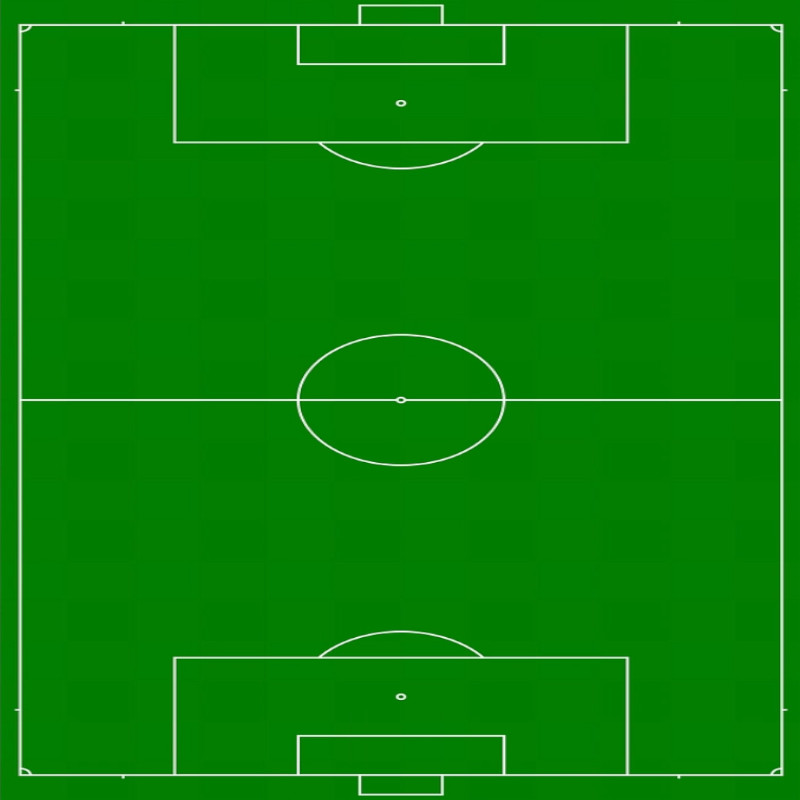
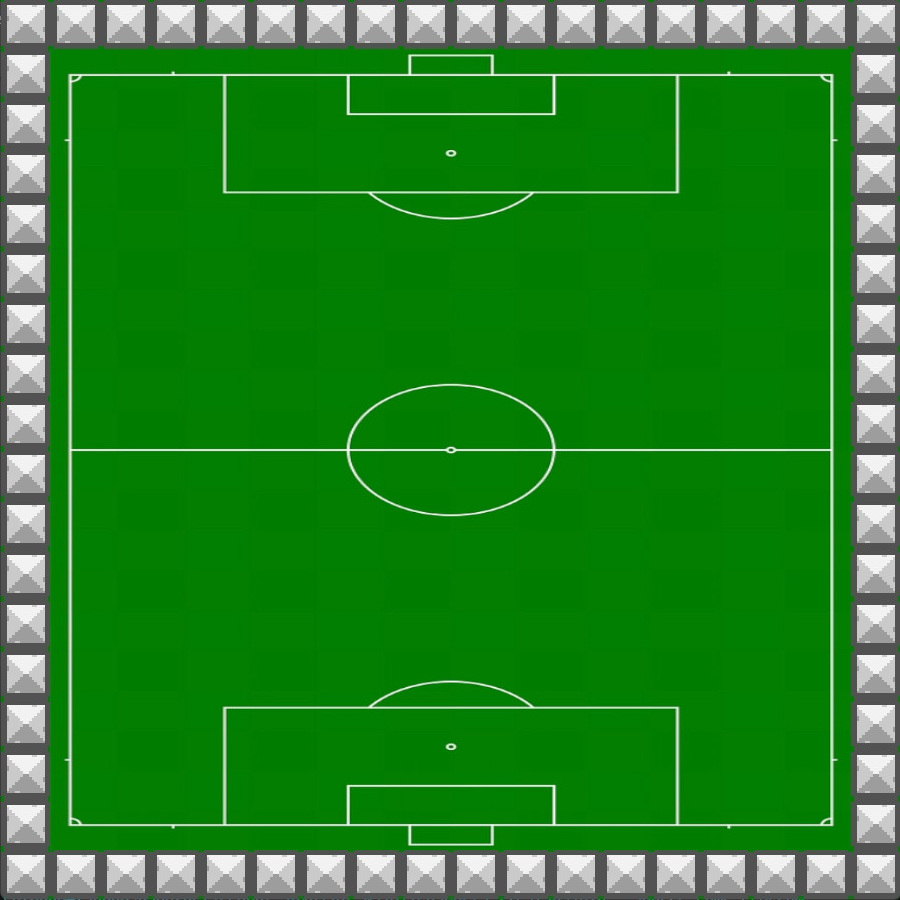
New Content + Performance Improved
• Massively improved performance;
• Changed "Graphics" for "Graphics2D";
• Added a new Player (Enemy);
• New background and showcase images.
• Small adjustments in README.md;
• Removed unnecessary code.

Changed region(s): [[0.0, 0.0, 1.0, 1.0], [0.4375, 0.4062, 0.6562, 0.5938], [0.3438, 0.4375, 0.4375, 0.5625]]

diff --git a/source/game/Sandbox.java b/source/game/Sandbox.java
@@ -33,31 +33,16 @@ public class Sandbox extends Game
         // Background
         scene.add(new Background(texBackgrounds, new Transform(0, 0)));
         
-        // Blocks
+        // Constants
         final int WIDTH = getWidth();
         final int HEIGHT = getHeight();
         final int SIZE = 50;
-        final int ROWS = HEIGHT / SIZE;
-        final int COLUMNS = WIDTH / SIZE;
 
-        // Top
-        for (int i = 0; i < COLUMNS - 1; i++)
-            scene.add(new Block(texProps, new Transform(SIZE * i, 0)), false);
-
-        // Bottom
-        for (int i = 0; i < COLUMNS; i++)
-            scene.add(new Block(texProps, new Transform(SIZE * i, HEIGHT - SIZE)), false);
-
-        // Right
-        for (int i = 0; i < ROWS - 1; i++)
-            scene.add(new Block(texProps, new Transform(WIDTH - SIZE, SIZE * i)), false);
-
-        // Left
-        for (int i = 1; i < ROWS - 1; i++)
-            scene.add(new Block(texProps, new Transform(0, SIZE * i)), false);
-
-        // Player
+        // Player 1
         scene.add(new Player(texCharacters, new Transform((WIDTH / 2) - (SIZE / 2), (HEIGHT / 2) - (SIZE / 2) + 125)), true);
+
+        // Player 2
+        scene.add(new Enemy(texCharacters, new Transform((WIDTH / 2) - (SIZE / 2), (HEIGHT / 2) - (SIZE / 2) - 125)), true);
 
         // Ball
         scene.add(new Ball(texProps, new Transform((WIDTH / 2) - 12, (HEIGHT / 2) - 12)), true);

diff --git a/source/game/Enemy.java b/source/game/Enemy.java
@@ -8,12 +8,12 @@ import source.engine.Keyboard;
 import source.engine.Texture;
 import source.engine.Transform;
 
-public class Player extends Actor
+public class Enemy extends Actor
 {
     private Texture texture;
     private int speed = 8;
 
-    public Player(Texture texture, Transform transform)
+    public Enemy(Texture texture, Transform transform)
     {
         super(transform);
         this.texture = texture;
@@ -23,16 +23,16 @@ public class Player extends Actor
     public void tick()
     {
         // Inputs
-        if (Input.getKeyPress(Keyboard.W))
+        if (Input.getKeyPress(Keyboard.Up))
             translate(0, -speed);
 
-        if (Input.getKeyPress(Keyboard.S))
+        if (Input.getKeyPress(Keyboard.Down))
             translate(0, speed);
 
-        if (Input.getKeyPress(Keyboard.D))  
+        if (Input.getKeyPress(Keyboard.Right))  
             translate(speed, 0);
 
-        if (Input.getKeyPress(Keyboard.A))
+        if (Input.getKeyPress(Keyboard.Left))
             translate(-speed, 0);
 
         // Screen position
@@ -55,7 +55,7 @@ public class Player extends Actor
     @Override
     public void draw(Graphics2D graphics)
     {
-        graphics.drawImage(texture.getTile(0, 50, 22, 24),
+        graphics.drawImage(texture.getTile(88, 0, 22, 24),
         getLocation().x,
         getLocation().y,
         getSize().x,

diff --git a/source/game/Ball.java b/source/game/Ball.java
@@ -1,6 +1,6 @@
 package source.game;
 
-import java.awt.Graphics;
+import java.awt.Graphics2D;
 
 import source.engine.Actor;
 import source.engine.Texture;
@@ -8,7 +8,7 @@ import source.engine.Transform;
 
 public class Ball extends Actor
 {
-    private final int SPEED = -5;
+    private final int SPEED = 8;
 
     private Texture texture;
     private int speedX = SPEED,
@@ -23,11 +23,26 @@ public class Ball extends Actor
     @Override
     public void tick()
     {
-        translate(speedX, speedY);
+        translate(-speedX, -speedY);
+
+        final int MIN = 50;
+        final int MAX = 825;
+
+        if (getLocation().x <= MIN)
+            speedX *= -1;
+
+        else if (getLocation().x >= MAX)
+            speedX *= -1;
+
+        if (getLocation().y <= MIN)
+            speedY *= -1;
+
+        else if (getLocation().y >= MAX)
+            speedY *= -1;
     }
 
     @Override
-    public void draw(Graphics graphics)
+    public void draw(Graphics2D graphics)
     {
         graphics.drawImage(texture.getTile(18, 0, 18, 18),
         getLocation().x,

diff --git a/source/engine/Renderer.java b/source/engine/Renderer.java
@@ -3,13 +3,13 @@ package source.engine;
 import java.awt.Canvas;
 import java.awt.Color;
 import java.awt.Dimension;
-import java.awt.Graphics;
+import java.awt.Graphics2D;
 import java.awt.image.BufferStrategy;
 
 public class Renderer
 {
     private BufferStrategy bufferStrategy;
-    private Graphics graphics;
+    private Graphics2D graphics;
     private Canvas canvas;
 
     public Renderer(int width, int height)
@@ -23,20 +23,20 @@ public class Renderer
         return canvas;
     }
 
-    public Graphics getGraphics()
+    public Graphics2D getGraphics()
     {
         return graphics;
     }
 
     public void createFramebuffer()
     {
-        canvas.createBufferStrategy(2);
+        canvas.createBufferStrategy(3);
     }
 
     public void clear()
     {
         bufferStrategy = canvas.getBufferStrategy();
-        graphics = bufferStrategy.getDrawGraphics();
+        graphics = (Graphics2D) bufferStrategy.getDrawGraphics();
 
         graphics.setColor(Color.BLACK);
         graphics.fillRect(0, 0, canvas.getWidth(), canvas.getHeight());

diff --git a/source/game/Block.java b/source/game/Block.java
@@ -1,12 +1,12 @@
 package source.game;
 
-import java.awt.Graphics;
+import java.awt.Graphics2D;
 
-import source.engine.Actor;
+import source.engine.Entity;
 import source.engine.Texture;
 import source.engine.Transform;
 
-public class Block extends Actor
+public class Block extends Entity
 {
     private Texture texture;
     
@@ -17,12 +17,13 @@ public class Block extends Actor
     }
 
     @Override
-    public void draw(Graphics graphics)
+    public void draw(Graphics2D graphics)
     {
         graphics.drawImage(texture.getTile(0, 0, 18, 18),
         getLocation().x,
         getLocation().y,
-        50, 50,
+        50,
+        50,
         null);
     }
 }

diff --git a/source/game/Background.java b/source/game/Background.java
@@ -1,6 +1,6 @@
 package source.game;
 
-import java.awt.Graphics;
+import java.awt.Graphics2D;
 
 import source.engine.Entity;
 import source.engine.Texture;
@@ -17,8 +17,8 @@ public class Background extends Entity
     }
     
     @Override
-    public void draw(Graphics graphics)
+    public void draw(Graphics2D graphics)
     {
-        graphics.drawImage(texture.getImage(), 50, 50, 800, 800, null);
+        graphics.drawImage(texture.getImage(), 0, 0, 900, 900, null);
     }
 }

diff --git a/source/engine/Game.java b/source/engine/Game.java
@@ -1,8 +1,7 @@
 package source.engine;
 
 import java.awt.Canvas;
-import java.awt.Graphics;
-// import java.awt.event.KeyListener;
+import java.awt.Graphics2D;
 
 import javax.swing.JFrame;
 
@@ -39,9 +38,9 @@ public class Game extends JFrame implements Runnable
     }
 
     @Override
-    public Graphics getGraphics()
+    public Graphics2D getGraphics()
     {
-        return renderer.getGraphics();
+        return (Graphics2D) renderer.getGraphics();
     }
 
     @Override

diff --git a/source/engine/Scene.java b/source/engine/Scene.java
@@ -1,6 +1,6 @@
 package source.engine;
 
-import java.awt.Graphics;
+import java.awt.Graphics2D;
 import java.awt.Rectangle;
 import java.util.ArrayList;
 import java.util.stream.Collectors;
@@ -46,7 +46,7 @@ public class Scene
             statics.get(i).tick();
     }
 
-    public void draw(Graphics graphics)
+    public void draw(Graphics2D graphics)
     {
         for (int i = 0; i < entities.size(); i++)
             entities.get(i).draw(graphics);

diff --git a/source/engine/Entity.java b/source/engine/Entity.java
@@ -1,6 +1,6 @@
 package source.engine;
 
-import java.awt.Graphics;
+import java.awt.Graphics2D;
 import java.awt.Point;
 
 public class Entity
@@ -27,7 +27,7 @@ public class Entity
     {
     }
     
-    public void draw(Graphics graphics)
+    public void draw(Graphics2D graphics)
     {
     }
 

diff --git a/README.md b/README.md
@@ -5,6 +5,6 @@
     <img src="data/image/showcase.jpg" width=850>
 <h2>Credits</h2>
 <section>
-    All assets that I used in this project are CC0, however, I prefer to give the authors credit for their creations.<br>
+    All assets that I used in this project are under CC0 license, however, I prefer to give the authors credit for their creations.<br>
     • Spites: <a href="https://www.kenney.nl/">Kenney</a>
 </section>
